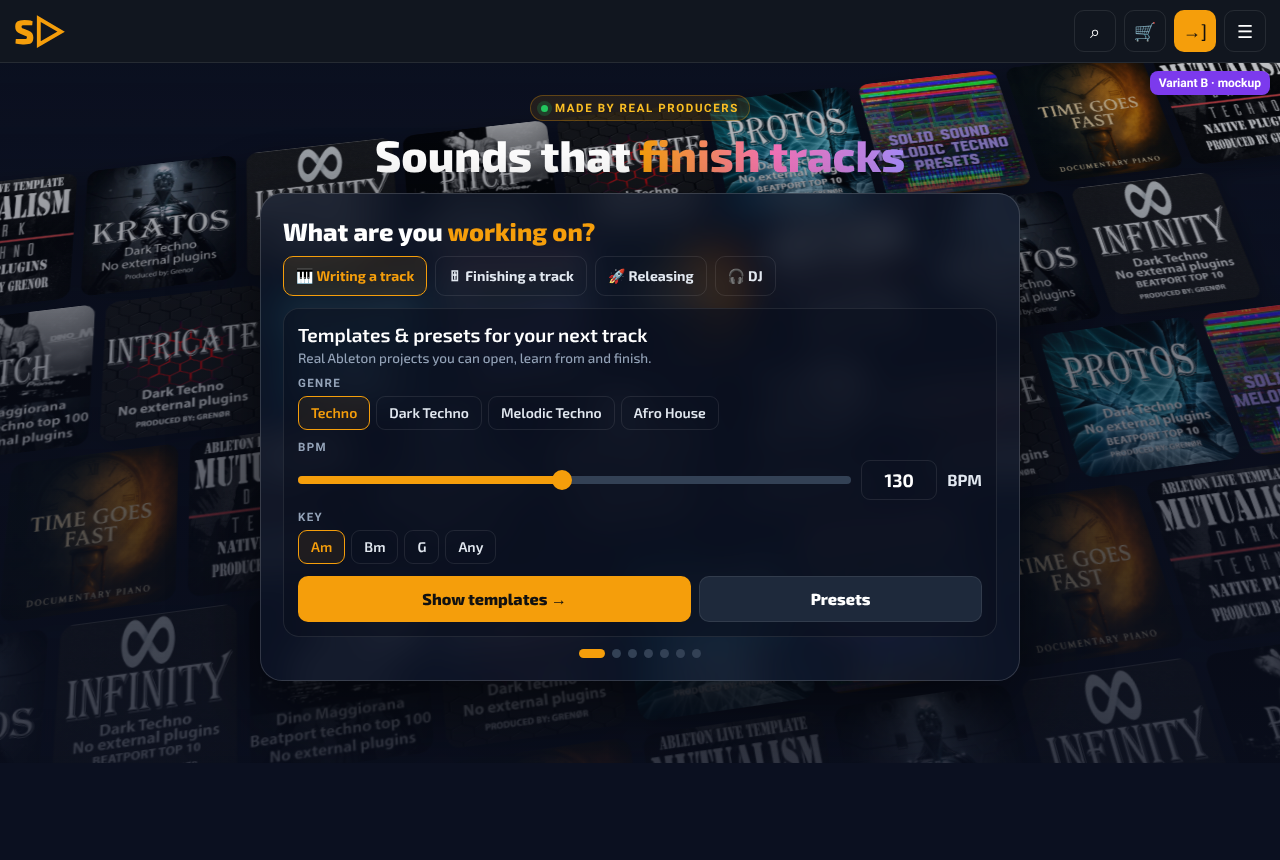
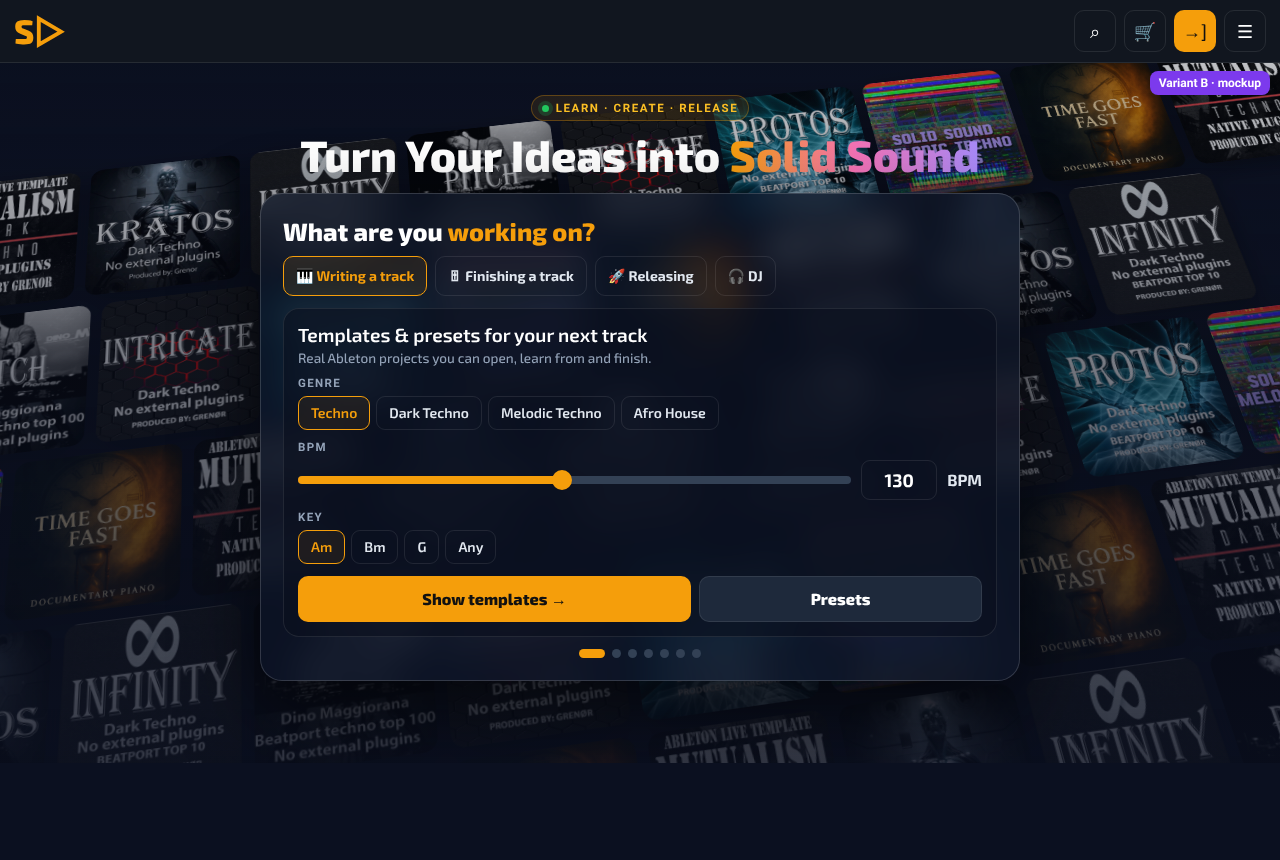
Slider mockup B: our slogan
Claude-Session: https://claude.ai/code/session_01JfK5zSDYR2btK9FRr3xgU6

diff --git a/mockups/slider-variants.html b/mockups/slider-variants.html
@@ -85,7 +85,7 @@ if(V==='A'){var v=document.createElement('div');v.className='viz';for(var i=0;i<
  hl.innerHTML='<span class="k"><span class="live"></span>Learn · Create · Release</span><h1>Turn Your Ideas into <em>Solid Sound</em></h1>';hl.after(v);
  ex.innerHTML='<div class="match"><div class="cv"><img src="Mutualism.jpg"><img src="Kratos.jpg"><img src="Infinity.jpg"></div><div><b>3 templates match</b><small>Techno · 130 BPM · Am — tap to listen</small></div></div>'}
 if(V==='B'){var w=document.createElement('div');w.className='wall';for(var r=0;r<5;r++){var row=document.createElement('div');row.className='row';for(var k=0;k<16;k++){var im=document.createElement('img');im.src=C[(k+r*3)%C.length];row.appendChild(im)}w.appendChild(row)}bg.appendChild(w);
- hl.innerHTML='<span class="k"><span class="live"></span>Made by real producers</span><h1>Sounds that <em>finish tracks</em></h1>'}
+ hl.innerHTML='<span class="k"><span class="live"></span>Learn · Create · Release</span><h1>Turn Your Ideas into <em>Solid Sound</em></h1>'}
 if(V==='C'){var g=document.createElement('div');g.className='grid';var cols=['#f59e0b','#f472b6','#a78bfa','#22d3ee','#22c55e','#fb7185'];for(var i=0;i<16*30;i++){var c=document.createElement('i');if(Math.random()<.45){c.style.setProperty('--c',cols[i%cols.length]);c.style.animationDelay=(-(i%8)*.25)+'s';c.style.animationDuration=(1+(i%4)*.5)+'s'}else c.style.animation='none';g.appendChild(c)}bg.appendChild(g);
  hl.innerHTML='<span class="k"><span class="live"></span>Learn · Create · Release</span><h1>Turn Your Ideas into <em>Solid Sound</em></h1>';
  var bars='';for(var i=0;i<28;i++)bars+='<i style="height:'+(25+Math.random()*75)+'%;animation-delay:-'+(Math.random()).toFixed(2)+'s"></i>';
